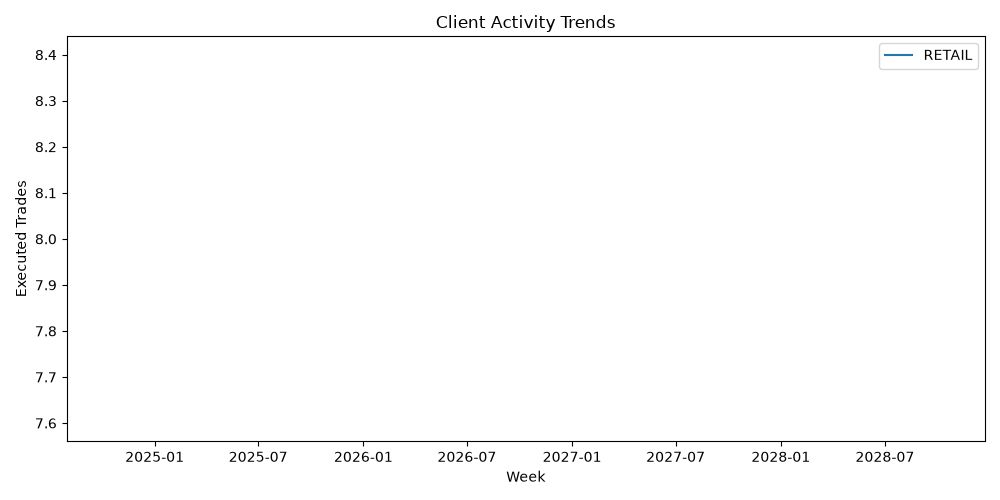
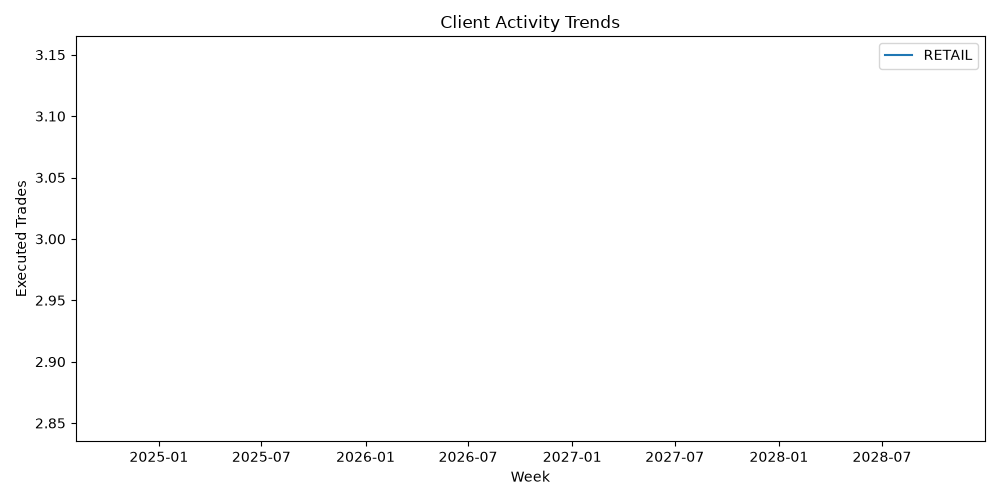
working on analyst dashboard

diff --git a/src/main/java/com/ceo/trading_platform_backend/services/AnalystService.java b/src/main/java/com/ceo/trading_platform_backend/services/AnalystService.java
@@ -5,6 +5,7 @@ import java.sql.Timestamp;
 import java.time.Instant;
 import java.time.LocalDate;
 import java.time.OffsetDateTime;
+import java.util.Comparator;
 import java.util.List;
 
 import org.springframework.stereotype.Service;
@@ -12,8 +13,11 @@ import org.springframework.transaction.annotation.Transactional;
 
 import com.ceo.trading_platform_backend.dto.ClientActivityTrendPoint;
 import com.ceo.trading_platform_backend.dto.TopInstrumentInsight;
+import com.ceo.trading_platform_backend.dto.TopMover;
 import com.ceo.trading_platform_backend.dto.TradingVolumeInsight;
+import com.ceo.trading_platform_backend.enums.InstrumentType;
 import com.ceo.trading_platform_backend.repositories.AnalystReportingRepository;
+import com.ceo.trading_platform_backend.repositories.InstrumentRepository;
 
 /**
  * AnalystService handles analyst-specific reporting and market data operations.
@@ -25,10 +29,13 @@ public class AnalystService {
 
     private final MarketService marketService;
     private final AnalystReportingRepository reportingRepository;
+    private final InstrumentRepository instrumentRepository;
 
-    public AnalystService(MarketService marketService, AnalystReportingRepository reportingRepository) {
+    public AnalystService(MarketService marketService, AnalystReportingRepository reportingRepository,
+            InstrumentRepository instrumentRepository) {
         this.marketService = marketService;
         this.reportingRepository = reportingRepository;
+        this.instrumentRepository = instrumentRepository;
     }
 
     /**
@@ -79,6 +86,32 @@ public class AnalystService {
                 .toList();
     }
 
+            /**
+             * Return stored equity instruments ranked by the magnitude of their latest percentage price change.
+             */
+            @Transactional(readOnly = true)
+            public List<TopMover> getTopMovers(int limit) {
+            int cappedLimit = Math.max(1, Math.min(limit, 25));
+            List<String> symbols = instrumentRepository.findByType(InstrumentType.EQUITY).stream()
+                .map(instrument -> instrument.getSymbol())
+                .distinct()
+                .limit(25)
+                .toList();
+
+            if (symbols.isEmpty()) {
+                return List.of();
+            }
+
+            return marketService.getQuotes(symbols).stream()
+                .map(MarketService.BatchQuoteResult::quote)
+                .filter(quote -> quote != null && quote.price() != null && quote.previousClose() != null
+                    && quote.changePercent() != null)
+                .map(quote -> new TopMover(quote.symbol(), quote.price(), quote.previousClose(), quote.changePercent()))
+                .sorted(Comparator.comparing((TopMover mover) -> mover.percentageChange().abs()).reversed())
+                .limit(cappedLimit)
+                .toList();
+            }
+
     /**
      * Return per-day client activity trend points.
      */
@@ -126,7 +159,7 @@ public class AnalystService {
             return null;
         }
         String trimmed = value.trim();
-        if (trimmed.isEmpty()) {
+        if (trimmed.isEmpty() || trimmed.equalsIgnoreCase(DEFAULT_FILTER_VALUE)) {
             return null;
         }
         return trimmed.toUpperCase();

diff --git a/src/test/java/com/ceo/trading_platform_backend/services/AnalystServiceTest.java b/src/test/java/com/ceo/trading_platform_backend/services/AnalystServiceTest.java
@@ -19,8 +19,12 @@ import org.mockito.junit.jupiter.MockitoExtension;
 
 import com.ceo.trading_platform_backend.dto.ClientActivityTrendPoint;
 import com.ceo.trading_platform_backend.dto.TopInstrumentInsight;
+import com.ceo.trading_platform_backend.dto.TopMover;
 import com.ceo.trading_platform_backend.dto.TradingVolumeInsight;
+import com.ceo.trading_platform_backend.enums.InstrumentType;
+import com.ceo.trading_platform_backend.models.Instrument;
 import com.ceo.trading_platform_backend.repositories.AnalystReportingRepository;
+import com.ceo.trading_platform_backend.repositories.InstrumentRepository;
 
 @ExtendWith(MockitoExtension.class)
 @DisplayName("AnalystService Tests")
@@ -32,11 +36,14 @@ class AnalystServiceTest {
     @Mock
     private AnalystReportingRepository reportingRepository;
 
+    @Mock
+    private InstrumentRepository instrumentRepository;
+
     private AnalystService analystService;
 
     @BeforeEach
     void setUp() {
-        analystService = new AnalystService(marketService, reportingRepository);
+        analystService = new AnalystService(marketService, reportingRepository, instrumentRepository);
     }
 
     @Test
@@ -91,6 +98,28 @@ class AnalystServiceTest {
         assertThat(insights.get(0).symbol()).isEqualTo("AAPL");
         assertThat(insights.get(0).executedTrades()).isEqualTo(10L);
     }
+
+        @Test
+        @DisplayName("getTopMovers ranks quotes by absolute percentage change")
+        void getTopMoversRanksQuotesByAbsolutePercentageChange() {
+        when(instrumentRepository.findByType(InstrumentType.EQUITY)).thenReturn(List.of(
+            new Instrument("AAPL", InstrumentType.EQUITY, "Apple"),
+            new Instrument("TSLA", InstrumentType.EQUITY, "Tesla")));
+        when(marketService.getQuotes(List.of("AAPL", "TSLA"))).thenReturn(List.of(
+            new MarketService.BatchQuoteResult("AAPL", "market", false,
+                new MarketService.QuoteData("AAPL", new BigDecimal("200"), null, null, null, "USD",
+                    null, new BigDecimal("-2.5"), new BigDecimal("205"), null, null),
+                null),
+            new MarketService.BatchQuoteResult("TSLA", "market", false,
+                new MarketService.QuoteData("TSLA", new BigDecimal("300"), null, null, null, "USD",
+                    null, new BigDecimal("4.2"), new BigDecimal("288"), null, null),
+                null)));
+
+        List<TopMover> movers = analystService.getTopMovers(5);
+
+        assertThat(movers).extracting(TopMover::symbol).containsExactly("TSLA", "AAPL");
+        assertThat(movers.get(0).percentageChange()).isEqualByComparingTo("4.2");
+        }
 
     @Test
     @DisplayName("getClientActivityTrend returns daily trend points")

diff --git a/analytics/etl_pipeline.py b/analytics/etl_pipeline.py
@@ -27,8 +27,9 @@ def extract_fulfilled_trades_from_db(db_url: str) -> pd.DataFrame:
             fulfilled.change_date AS executed_at,
             o.client_id,
             ua.client_segment,
-            o.instrument_id,
-            i.symbol,
+            o.add_instrument_id AS instrument_id,
+            add_instrument.symbol,
+            o.subtract_instrument_id AS subtract_instrument_id,
             o.side,
             o.quantity,
             COALESCE(o.quote, 0) AS price
@@ -41,7 +42,10 @@ def extract_fulfilled_trades_from_db(db_url: str) -> pd.DataFrame:
             WHERE status = 'FULFILLED'
             ORDER BY order_id, change_date DESC
         ) fulfilled ON fulfilled.order_id = o.order_id
-        INNER JOIN public.instrument i ON i.instrument_id = o.instrument_id
+        INNER JOIN public.instrument add_instrument
+            ON add_instrument.instrument_id = o.add_instrument_id
+        LEFT JOIN public.instrument subtract_instrument
+            ON subtract_instrument.instrument_id = o.subtract_instrument_id
         INNER JOIN public.user_account ua ON ua.user_id = o.client_id
         '''
     )

diff --git a/src/main/java/com/ceo/trading_platform_backend/controllers/AnalystController.java b/src/main/java/com/ceo/trading_platform_backend/controllers/AnalystController.java
@@ -15,6 +15,7 @@ import org.springframework.web.bind.annotation.RestController;
 
 import com.ceo.trading_platform_backend.dto.ClientActivityTrendPoint;
 import com.ceo.trading_platform_backend.dto.TopInstrumentInsight;
+import com.ceo.trading_platform_backend.dto.TopMover;
 import com.ceo.trading_platform_backend.dto.TradingVolumeInsight;
 import com.ceo.trading_platform_backend.services.AnalystService;
 
@@ -48,6 +49,12 @@ public class AnalystController {
         Instant fromUtc = from.atStartOfDay().toInstant(ZoneOffset.UTC);
         Instant toExclusiveUtc = to.plusDays(1).atStartOfDay().toInstant(ZoneOffset.UTC);
         return ResponseEntity.ok(analystService.getTopInstruments(fromUtc, toExclusiveUtc, limit));
+    }
+
+    @GetMapping("/top-movers")
+    public ResponseEntity<List<TopMover>> getTopMovers(
+            @RequestParam(defaultValue = "5") int limit) {
+        return ResponseEntity.ok(analystService.getTopMovers(limit));
     }
 
     @GetMapping("/client-activity-trends")

diff --git a/src/main/java/com/ceo/trading_platform_backend/repositories/InstrumentRepository.java b/src/main/java/com/ceo/trading_platform_backend/repositories/InstrumentRepository.java
@@ -1,12 +1,16 @@
 package com.ceo.trading_platform_backend.repositories;
 
+import java.util.List;
 import java.util.UUID;
 
 import org.springframework.data.jpa.repository.JpaRepository;
 
+import com.ceo.trading_platform_backend.enums.InstrumentType;
 import com.ceo.trading_platform_backend.models.Instrument;
 
 public interface InstrumentRepository extends JpaRepository<Instrument, UUID> {
     
     public Instrument findBySymbol(String symbol);
+
+    List<Instrument> findByType(InstrumentType type);
 }

diff --git a/src/main/java/com/ceo/trading_platform_backend/dto/TopMover.java b/src/main/java/com/ceo/trading_platform_backend/dto/TopMover.java
@@ -1,0 +1,10 @@
+package com.ceo.trading_platform_backend.dto;
+
+import java.math.BigDecimal;
+
+public record TopMover(
+        String symbol,
+        BigDecimal currentPrice,
+        BigDecimal previousClose,
+        BigDecimal percentageChange) {
+}
